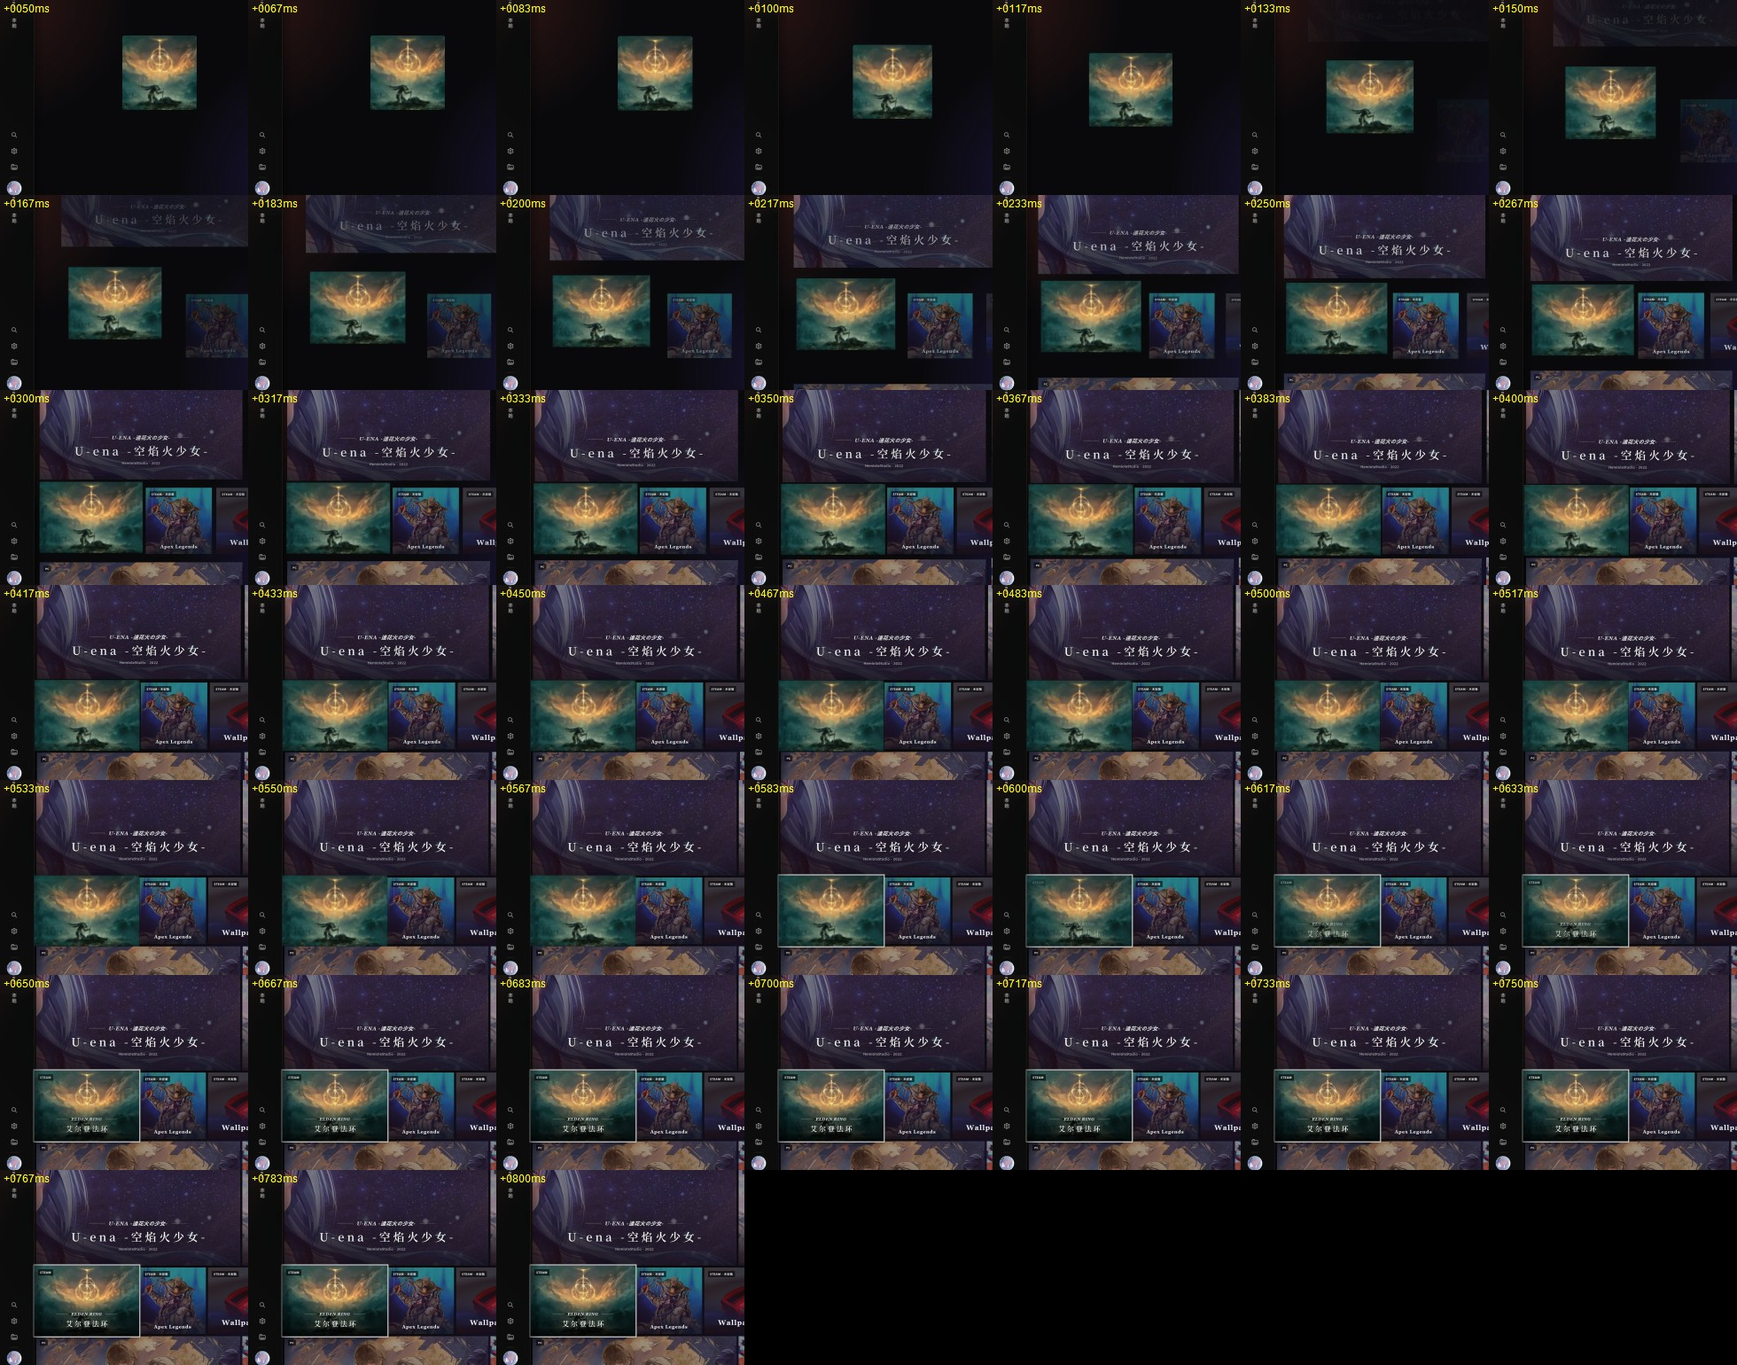
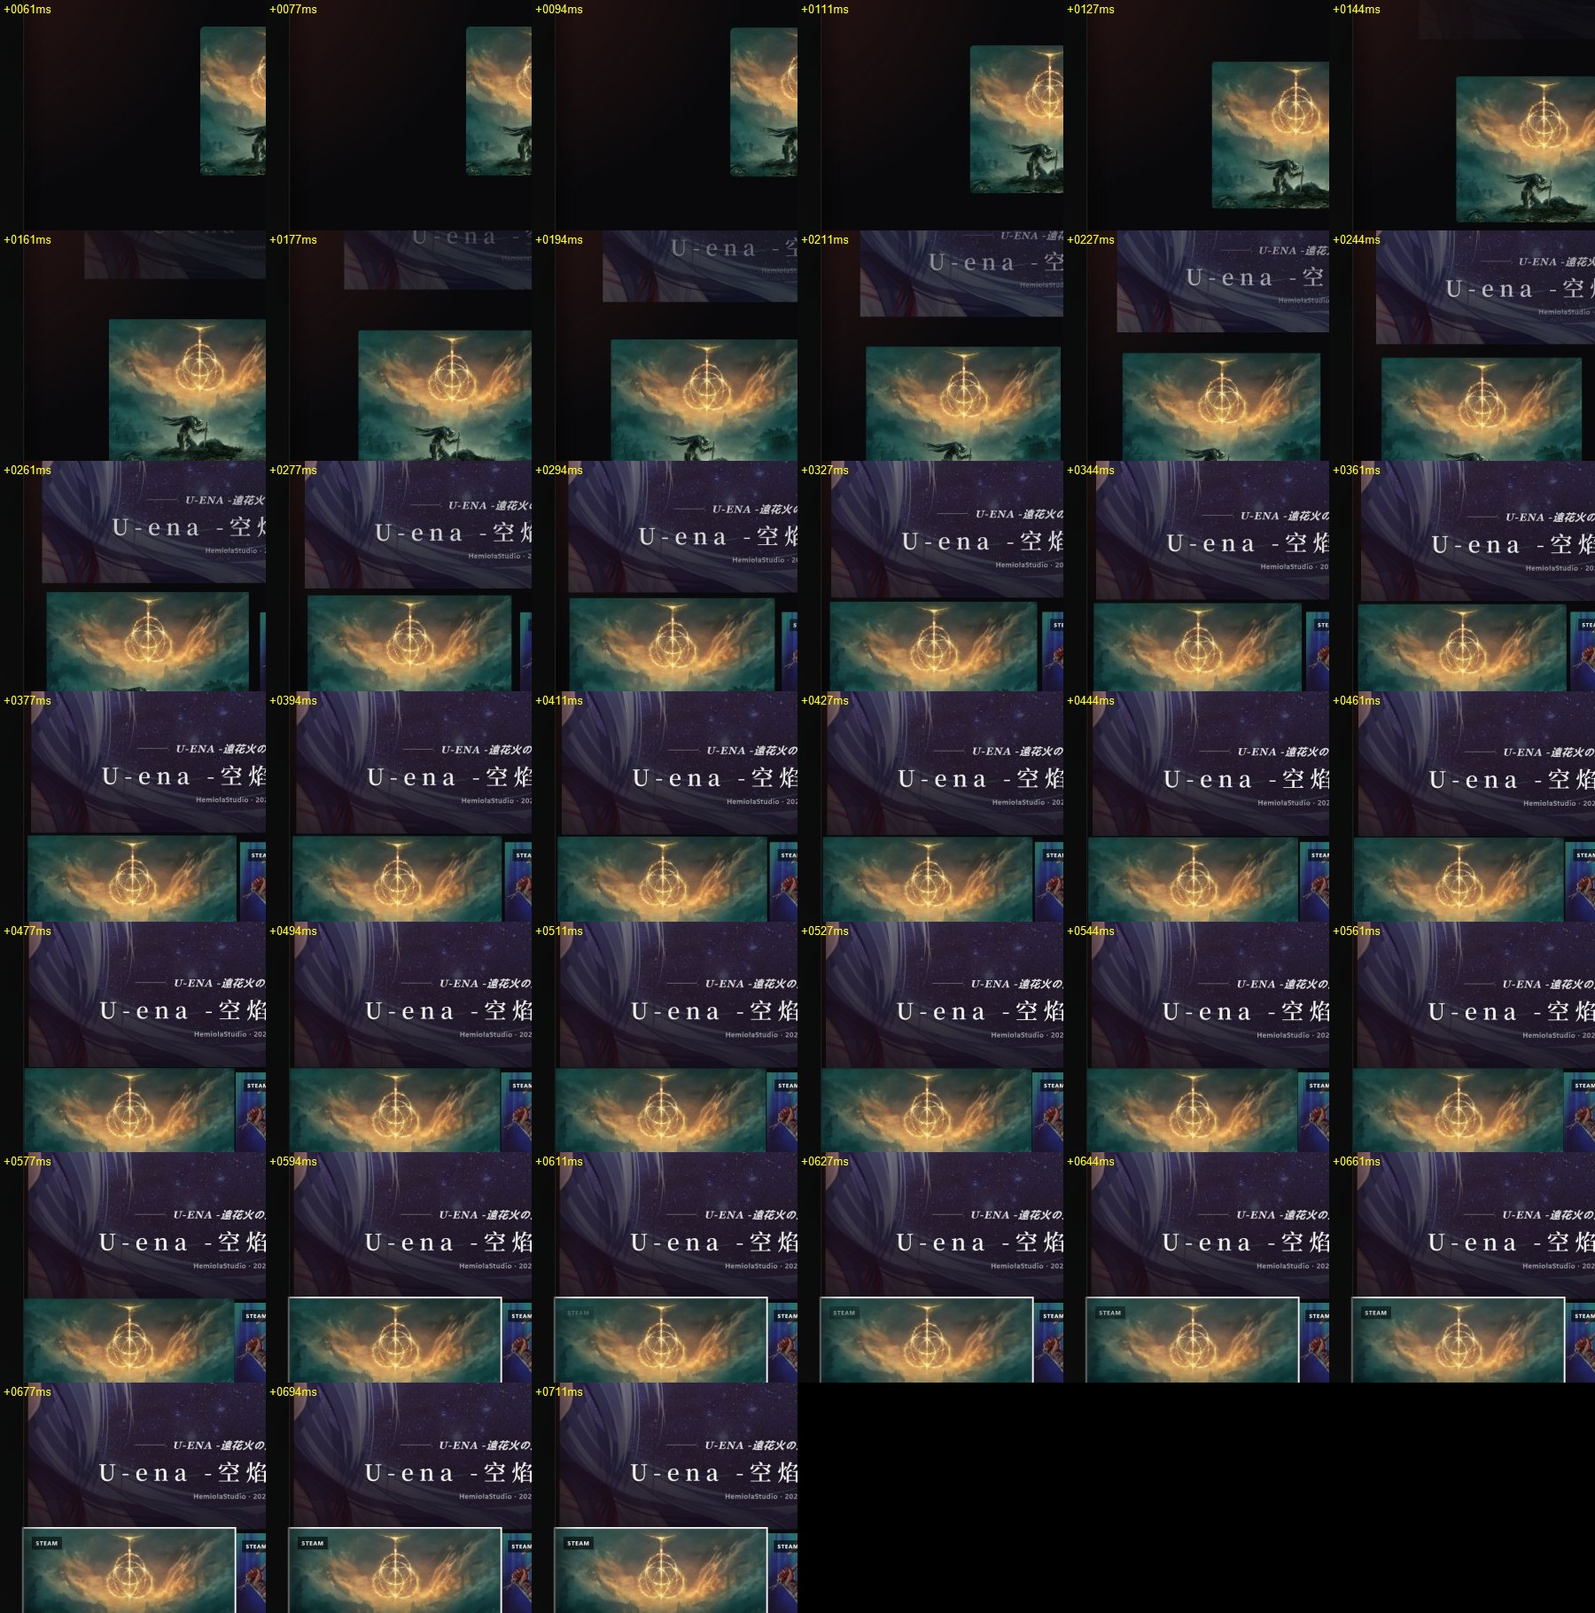
游戏库原生版：修控制中心封面偶尔消失；形变改成整图刚体缩放 + 裁切窗口，不再拉伸 / 重裁
封面消失（压力测试复现：60 次里 19 次，换同一款游戏再开控制中心必现）：
- 关控制中心时把封面引用还给图片缓存（CcReleaseCover），再开时卡面内容没变就不重画，封面也就再没拿回来
- 修：每次打开都显式 CcSetCover；封面解码上限改成正方形 2× 边长（横图按宽解码只剩一半高度，放大发糊）
- 验证：--state=cycle 经手柄投递路径 100 次往返（换焦点、走远让卡回收、动画中途按 B / ≡ 打断），0 次丢封面；
  带 --no-cover-fix（旧逻辑）同一测试 60 次丢 19 次
形变裁切 / 拉伸：
- 之前飞的是一个按铺满裁的盒子，宽高比在方（卡的封面）和横 / 竖（墙卡）之间变，内容每帧被重新裁、比例在变
- 改：一张整图等比缩放（对数插值）+ 平移，圆角裁切窗口单独从起点矩形走到终点矩形，三者同一条曲线、同一组采样；
  两头都是同一张图从正中铺满裁，所以起点帧 = 起点的卡，终点帧 = 终点的卡，中间只是窗口在变
- 出场时盖在图上的墙卡卡面（字、角标、焦点环）跟图一起刚体缩放平移，0.12 s 淡掉
- 飞的那张优先用已解码、分辨率更高的那一份（游戏库卡的或墙卡的）
- docs/native-library/morph-*-realtime.jpg：真实速度逐帧（按键后毫秒数）

diff --git a/frontend/library-native/ClawLibrary/Stage/WallStage.ControlCenter.cs b/frontend/library-native/ClawLibrary/Stage/WallStage.ControlCenter.cs
@@ -112,6 +112,17 @@ public sealed partial class WallStage
         if (_ccOpen) CloseControlCenter(); else OpenControlCenter();
     }
 
+    /// <summary>测试用：游戏库卡封面此刻的状态（有没有图、解码好没有、可见不可见）。</summary>
+    internal (bool ok, string info) CcCoverState()
+    {
+        if (_ccBlocks.Count == 0) return (false, "no blocks");
+        var b = _ccBlocks[0];
+        bool hasBrush = b.Cover.Brush is CompositionSurfaceBrush { Surface: not null };
+        bool loaded = b.CoverRef != null && Images.IsLoaded(b.CoverRef);
+        bool ok = b.CoverPath == null || (hasBrush && loaded && b.Cover.Opacity > 0.99f && b.Gate.Opacity > 0.99f && b.Cover.IsVisible);
+        return (ok, $"path={Path.GetFileName(Path.GetDirectoryName(b.CoverPath ?? ""))}/{Path.GetFileName(b.CoverPath ?? "-")} brush={hasBrush} loaded={loaded} coverOp={b.Cover.Opacity:F2} gateOp={b.Gate.Opacity:F2} open={_ccOpen} morph={MorphBusy}");
+    }
+
     /// <summary>启动后空闲时把控制中心的视觉先建好、卡面先画好（藏着），按 ≡ 时只刷新读数，第一帧不卡。</summary>
     public void PrewarmControlCenter()
     {
@@ -143,6 +154,8 @@ public sealed partial class WallStage
         CcMeasure();
         CcReadData();
         foreach (var b in _ccBlocks) CcPaintCard(b);   // 内容没变的卡不重画（启动后已经预热画过一遍）
+        // 关的时候封面引用已经还给图片缓存（CcReleaseCover）；卡面没变就不会重画，所以这里必须显式重新拿封面
+        if (!Program.Args.Contains("--no-cover-fix")) foreach (var b in _ccBlocks) CcSetCover(b);   // --no-cover-fix：测试用，复现旧 bug
         // folia：从集合层返回时首页停在来时的那张卡上 —— 墙是从游戏库卡进来的
         _ccFocus = 0;
         _ccOff = null;
@@ -558,7 +571,8 @@ public sealed partial class WallStage
         if (b.CoverPath == null) { CcReleaseCover(b); return; }
         if (b.CoverRef != null) return;
         // 竖封面按宽解码，UniformToFill 居中裁成方的
-        var s = Images.AcquireReuse(b.CoverPath, CoverPx, CoverPx * 3 / 2);
+        // 解码上限取正方形 2× 封面边长：铺满裁剪时短边也够封面边长（横图按宽解码会只剩一半高度，放大发糊）
+        var s = Images.AcquireReuse(b.CoverPath, CoverPx * 2, CoverPx * 2);
         if (s == null) return;
         b.CoverRef = s;
         b.Cover.Brush = CoverBrush(s);
@@ -710,33 +724,28 @@ public sealed partial class WallStage
     /// </summary>
     private const double HandMs = 33;
 
-    /// <summary>飞的东西：一个带圆角裁切的容器，里面只放一个精灵（容器淡出时没有别的子视觉会透出来）。</summary>
+    /// <summary>
+    /// 飞的东西：一张**整图**按等比缩放平移（内容永远不被拉伸、也不会每帧重新裁），外面一个圆角裁切窗口
+    /// 从起点的矩形走到终点的矩形。两头都是「同一张图、从正中按铺满裁」：起点那一帧和起点的卡一样，终点那一帧和终点的卡一样，
+    /// 中间只是窗口在变、图在等比缩放，看起来就是一张图一步到位地挪过去。
+    /// </summary>
     private sealed class Flyer
     {
         public ContainerVisual Box = null!;
         public CompositionRoundedRectangleGeometry Geo = null!;
+        public SpriteVisual Img = null!;
+        public SpriteVisual? Over;
         public IDisposable? Own;
     }
 
     private readonly List<Flyer> _flyers = new();
-
-    private Flyer MakeFlyer((CompositionBrush brush, IDisposable? own) src, float radius)
-    {
-        var f = new Flyer { Own = src.own };
-        f.Box = G.C.CreateContainerVisual();
-        f.Geo = RoundRect(1, 1, radius);
-        f.Box.Clip = G.C.CreateGeometricClip(f.Geo);
-        f.Box.Children.InsertAtTop(G.Sprite(src.brush));
-        _fx!.Children.InsertAtTop(f.Box);
-        _flyers.Add(f);
-        return f;
-    }
 
     private void DisposeFlyers()
     {
         foreach (var f in _flyers)
         {
             _fx?.Children.Remove(f.Box);
+            if (f.Over != null) _fx?.Children.Remove(f.Over);
             f.Own?.Dispose();
             f.Box.Dispose();
         }
@@ -744,45 +753,107 @@ public sealed partial class WallStage
     }
 
     /// <summary>
-    /// 飞的那张图：游戏库卡封面已经解码好就用它（落在卡上时就是同一份像素），否则用墙卡正在显示的那份
-    /// （同一张图文件，墙卡上一直在画，肯定已经解码）。都从正中按 UniformToFill 裁，和两边的裁法一样。
+    /// 飞的那张图：游戏库卡的封面和墙卡显示的是同一张图文件；挑已经解码好、分辨率更高的那一份
+    /// （起点、终点都不会因为换了分辨率而变糊 / 变清楚）。
     /// </summary>
-    private (CompositionBrush, IDisposable?) FlyerSource(CcBlock card, Tile tile)
+    private LoadedImageSurface? FlyerSurface(CcBlock card, Tile tile)
     {
-        ICompositionSurface? s = card.CoverRef != null && Images.IsLoaded(card.CoverRef) ? card.CoverRef : tile.ArtSurface ?? (ICompositionSurface?)card.CoverRef;
-        if (s == null) return (G.Solid(Gfx.Rgba(0x27, 0x27, 0x2a, 1)), null);
-        return (CoverBrush(s), null);
+        LoadedImageSurface? best = null;
+        foreach (var s in new[] { card.CoverRef, tile.ArtSurface })
+            if (s != null && Images.IsLoaded(s) && (best == null || s.DecodedPhysicalSize.Height > best.DecodedPhysicalSize.Height)) best = s;
+        return best ?? card.CoverRef ?? tile.ArtSurface;
     }
 
-    /// <summary>墙卡卡面的实时画面（含焦点环那一圈），按盒子铺满。</summary>
-    private (CompositionBrush, IDisposable?) FaceSource(Tile t)
+    /// <summary>
+    /// 从 r0 飞到 r1（屏幕 DIP）：整图等比缩放（对数插值）+ 平移，裁切窗口（含圆角）单独插值；三者同一条曲线、同一组采样点。
+    /// overlay：起飞时盖在图上的墙卡卡面（字、角标、焦点环），和图一起刚体缩放平移（不拉伸），由调用方淡掉。
+    /// </summary>
+    private Flyer RigidFly(LoadedImageSurface? surf, Box r0, Box r1, float rad0, float rad1, double delayMs, (Tile tile, Box vis)? overlay = null)
     {
-        if (t.FaceRoot is not { } face) return (G.Solid(Gfx.Rgba(0, 0, 0, 0)), null);
-        var vs = G.C.CreateVisualSurface();
-        vs.SourceVisual = face;
-        vs.SourceOffset = new Vector2(-RingMargin, -RingMargin);
-        vs.SourceSize = t.El.Size + new Vector2(2 * RingMargin);
-        var b = G.C.CreateSurfaceBrush(vs);
-        b.Stretch = CompositionStretch.Fill;
-        return (b, vs);
-    }
+        var f = new Flyer();
+        var sz = surf?.DecodedPhysicalSize ?? default;
+        double iw = sz.Width > 0 ? sz.Width : r0.W, ih = sz.Height > 0 ? sz.Height : r0.H;
+        double Cover(Box r) => Math.Max(r.W / iw, r.H / ih);
+        double s0 = Cover(r0), s1 = Cover(r1);
+        Vector2 c0 = r0.Center, c1 = r1.Center;
 
-    /// <summary>盒子（位置、尺寸、圆角）从 a 到 b：定长 ease-out，到点正好停在目标上；delay 之前停在 a。</summary>
-    private void Fly(Flyer f, Box a, Box b, float ra, float rb, double delayMs)
-    {
-        KeyFrameAnimation D(KeyFrameAnimation k)
+        f.Box = G.C.CreateContainerVisual();
+        f.Box.Size = new Vector2((float)View.Width, (float)View.Height);
+        f.Geo = RoundRect(r0.W, r0.H, rad0);
+        f.Geo.Offset = new Vector2(r0.X, r0.Y);
+        f.Box.Clip = G.C.CreateGeometricClip(f.Geo);
+        var brush = surf != null ? (CompositionBrush)G.C.CreateSurfaceBrush(surf) : G.Solid(Gfx.Rgba(0x27, 0x27, 0x2a, 1));
+        if (brush is CompositionSurfaceBrush sb) sb.Stretch = CompositionStretch.Fill;   // 精灵的宽高比 = 图的宽高比，Fill 不会拉伸
+        f.Img = G.Sprite(brush, relative: false);
+        f.Box.Children.InsertAtTop(f.Img);
+        _fx!.Children.InsertAtTop(f.Box);
+
+        const int N = 48;
+        var imgOff = G.C.CreateVector3KeyFrameAnimation();
+        var imgSize = G.C.CreateVector2KeyFrameAnimation();
+        var clipOff = G.C.CreateVector2KeyFrameAnimation();
+        var clipSize = G.C.CreateVector2KeyFrameAnimation();
+        var clipRad = G.C.CreateVector2KeyFrameAnimation();
+        Vector3KeyFrameAnimation? ovOff = null;
+        Vector2KeyFrameAnimation? ovSize = null;
+        if (overlay is { } ov && ov.tile.FaceRoot is { } face)
         {
-            k.DelayTime = Gfx.Ms(delayMs);
-            k.DelayBehavior = AnimationDelayBehavior.SetInitialValueBeforeDelay;
-            return k;
+            var vs = G.C.CreateVisualSurface();
+            vs.SourceVisual = face;
+            vs.SourceOffset = new Vector2(-RingMargin, -RingMargin);
+            vs.SourceSize = ov.tile.El.Size + new Vector2(2 * RingMargin);
+            var ob = G.C.CreateSurfaceBrush(vs);
+            ob.Stretch = CompositionStretch.Fill;
+            f.Over = G.Sprite(ob, relative: false);
+            f.Own = vs;
+            _fx.Children.InsertAtTop(f.Over);
+            ovOff = G.C.CreateVector3KeyFrameAnimation();
+            ovSize = G.C.CreateVector2KeyFrameAnimation();
         }
-        f.Box.Offset = a.Pos; f.Box.Size = a.Size;
-        f.Geo.Size = a.Size; f.Geo.CornerRadius = new Vector2(ra, ra);
-        f.Box.StartAnimation("Offset", D(G.SampledV3(a.Pos, b.Pos, FlyMs, FlyCurve)));
-        f.Box.StartAnimation("Size", D(G.SampledV2(a.Size, b.Size, FlyMs, FlyCurve)));
-        f.Geo.StartAnimation("Size", D(G.SampledV2(a.Size, b.Size, FlyMs, FlyCurve)));
-        f.Geo.StartAnimation("CornerRadius", D(G.SampledV2(new Vector2(ra, ra), new Vector2(rb, rb), FlyMs, FlyCurve)));
+        for (int i = 0; i <= N; i++)
+        {
+            float u = i / (float)N;
+            double e = FlyCurve(u);
+            var r = new Box(Lerp(r0.X, r1.X, e), Lerp(r0.Y, r1.Y, e), Lerp(r0.W, r1.W, e), Lerp(r0.H, r1.H, e));
+            double s = Math.Max(Math.Exp(Math.Log(s0) + (Math.Log(s1) - Math.Log(s0)) * e), Cover(r));
+            var c = Vector2.Lerp(c0, c1, (float)e);
+            var d = new Vector2((float)(iw * s), (float)(ih * s));
+            imgOff.InsertKeyFrame(u, new Vector3(c - d / 2, 0), G.Linear);
+            imgSize.InsertKeyFrame(u, d, G.Linear);
+            clipOff.InsertKeyFrame(u, new Vector2(r.X, r.Y), G.Linear);
+            clipSize.InsertKeyFrame(u, r.Size, G.Linear);
+            float rad = (float)(rad0 + (rad1 - rad0) * e);
+            clipRad.InsertKeyFrame(u, new Vector2(rad, rad), G.Linear);
+            if (overlay is { } o && ovOff != null && ovSize != null)
+            {
+                float k = (float)(s / s0);
+                ovOff.InsertKeyFrame(u, new Vector3(c + (new Vector2(o.vis.X, o.vis.Y) - c0) * k, 0), G.Linear);
+                ovSize.InsertKeyFrame(u, o.vis.Size * k, G.Linear);
+            }
+        }
+        // 起点值先摆好（延迟期间就是这一帧）
+        var dd0 = new Vector2((float)(iw * s0), (float)(ih * s0));
+        f.Img.Offset = new Vector3(c0 - dd0 / 2, 0);
+        f.Img.Size = dd0;
+        if (f.Over != null && overlay is { } o0) { f.Over.Offset = o0.vis.Pos; f.Over.Size = o0.vis.Size; }
+        void Go(CompositionObject target, string prop, KeyFrameAnimation a)
+        {
+            a.Duration = Gfx.Ms(FlyMs);
+            a.DelayTime = Gfx.Ms(delayMs);
+            a.DelayBehavior = AnimationDelayBehavior.SetInitialValueBeforeDelay;
+            target.StartAnimation(prop, a);
+        }
+        Go(f.Img, "Offset", imgOff);
+        Go(f.Img, "Size", imgSize);
+        Go(f.Geo, "Offset", clipOff);
+        Go(f.Geo, "Size", clipSize);
+        Go(f.Geo, "CornerRadius", clipRad);
+        if (f.Over != null) { Go(f.Over, "Offset", ovOff!); Go(f.Over, "Size", ovSize!); }
+        _flyers.Add(f);
+        return f;
     }
+
+    private static float Lerp(float a, float b, double t) => (float)(a + (b - a) * t);
 
     private ScalarKeyFrameAnimation Keys(double ms, params (float at, float value, Bezier? ease)[] keys)
     {
@@ -956,14 +1027,10 @@ public sealed partial class WallStage
         var heroArt = HeroBox(hero.tile, now, 0);
         var heroVis = HeroBox(hero.tile, now);
         var b0 = _ccBlocks[0];
-        var img = MakeFlyer(FlyerSource(b0, hero.tile), 0);
-        // 墙卡上的字、角标、焦点环：盖一层墙卡卡面的实时画面，起飞后 0.12 s 淡掉（只有它一个子视觉，淡出不会透出别的）
-        var overlay = MakeFlyer(FaceSource(hero.tile), 0);
-        var fly = FlyCurve;
-        Fly(img, heroArt, homeCover, 0, HomeCoverRadius, HandMs);
-        Fly(overlay, heroVis, homeCover, 0, HomeCoverRadius, HandMs);
+        // 墙卡上的字、角标、焦点环：盖一层墙卡卡面的实时画面，跟着图一起刚体缩放平移，起飞后 0.12 s 淡掉
+        var img = RigidFly(FlyerSurface(b0, hero.tile), heroArt, homeCover, 0, HomeCoverRadius, HandMs, (hero.tile, heroVis));
         double land = HandMs + FlyMs, total = land + HandoffMs;
-        overlay.Box.StartAnimation("Opacity", Keys(HandMs + 120, (0, 1, null), ((float)(HandMs / (HandMs + 120)), 1, null), (1, 0, EaseCss)));
+        img.Over?.StartAnimation("Opacity", Keys(HandMs + 120, (0, 1, null), ((float)(HandMs / (HandMs + 120)), 1, null), (1, 0, EaseCss)));
         // 真墙卡（hero 和幽灵的原卡）在飞的那份已经画出来之后（HandMs）才藏
         hero.tile.MorphHideAt(HandMs);
         foreach (var (t, _) in squad) t.MorphHideAt(HandMs);
@@ -1051,8 +1118,7 @@ public sealed partial class WallStage
         bool hold = Program.Args.Contains("--morph-hold");   // 测试：落定后停住不交接，截图对比
         var heroArt = HeroBox(hero.tile, now, 0);
         var b0 = _ccBlocks[0];
-        var img = MakeFlyer(FlyerSource(b0, hero.tile), HomeCoverRadius);
-        Fly(img, homeCover, heroArt, HomeCoverRadius, 0, HandMs);
+        var img = RigidFly(FlyerSurface(b0, hero.tile), homeCover, heroArt, HomeCoverRadius, 0, HandMs);
         double land = HandMs + FlyMs;
         var card = b0.Gate;
         var cardCover = b0.Cover;

diff --git a/frontend/library-native/ClawLibrary/Stage/Bench.cs b/frontend/library-native/ClawLibrary/Stage/Bench.cs
@@ -142,6 +142,37 @@ public static class Bench
     }
 
     /// <summary>把墙摆到某个状态（截图用）。</summary>
+    /// <summary>压力测试：经手柄投递路径反复 墙 ⇄ 控制中心，换焦点、快速连按、动画中途按；每次打开控制中心后检查游戏库卡封面。</summary>
+    private static async Task CycleAsync(WallStage s)
+    {
+        await Task.Delay(1500);
+        var pad = s.Pad;
+        if (pad == null) { Log.Warn("cycle: no pad"); return; }
+        var rnd = new Random(7);
+        int bad = 0, runs = 0;
+        for (int i = 0; i < 100; i++)
+        {
+            // 墙上换焦点（偶尔走远一点，让卡被回收 / 重建）
+            int steps = rnd.Next(0, i % 10 == 9 ? 14 : 4);
+            for (int k = 0; k < steps; k++) { s.Move((Direction)rnd.Next(0, 4)); await Task.Delay(140); }
+            await Task.Delay(rnd.Next(50, 400));
+            pad.InjectPress(Input.GamepadPoller.PadMenu);           // 出场：墙 → 控制中心
+            int mode = i % 4;
+            if (mode == 1) { await Task.Delay(rnd.Next(60, 300)); pad.InjectPress(Input.GamepadPoller.PadB); }   // 动画中途按一下（快进）
+            await Task.Delay(1300);
+            if (!s.ControlCenterOpen) { pad.InjectPress(Input.GamepadPoller.PadMenu); await Task.Delay(1300); }
+            var (ok, info) = s.CcCoverState();
+            runs++;
+            if (!ok) bad++;
+            Log.Info($"cycle {i}: {(ok ? "ok" : "MISSING")} {info}");
+            // 回墙：A（进场）或 B；偶尔动画中途再按 ≡ 打断
+            pad.InjectPress(mode == 2 ? Input.GamepadPoller.PadB : Input.GamepadPoller.PadA);
+            if (mode == 3) { await Task.Delay(rnd.Next(40, 250)); pad.InjectPress(Input.GamepadPoller.PadMenu); await Task.Delay(1300); pad.InjectPress(Input.GamepadPoller.PadA); }
+            await Task.Delay(1200);
+        }
+        Log.Info($"cycle done: {runs} opens, {bad} missing covers");
+    }
+
     /// <summary>录真实速度的每一帧：经手柄投递路径按 ≡（出场）/ A（进场），各录 1.6 s。</summary>
     private static async Task RecordAsync(WallStage s, string state)
     {
@@ -179,6 +210,7 @@ public static class Bench
                 case "styleb": s.ToggleTitleStyle(); break;
                 case "tab": s.SwitchTab(1); break;
                 case "control": s.ToggleControlCenter(); break;
+                case "cycle": await CycleAsync(s); break;
                 case "recexit" or "recenter" or "recboth": await RecordAsync(s, state); break;
                 case "ccslow": s.ToggleControlCenter(); await Task.Delay(7000); Log.Info("state ccslow enter"); s.Activate(); break;
                 case "ccenter": s.ToggleControlCenter(); await Task.Delay(2500); Log.Info("state ccenter now"); s.Activate(); break;
